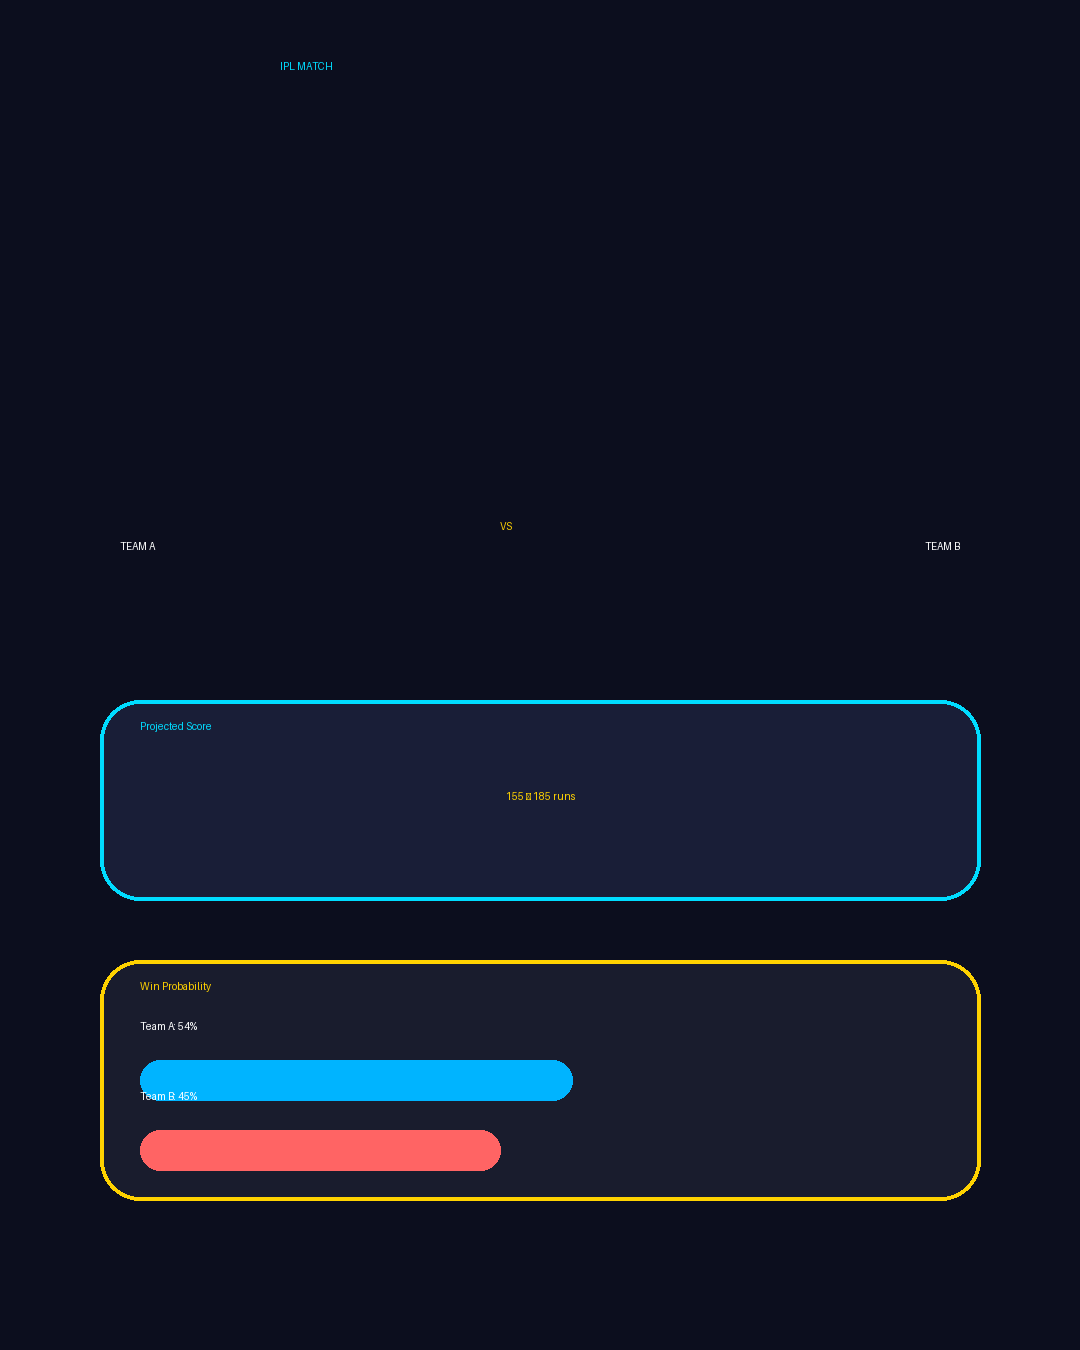
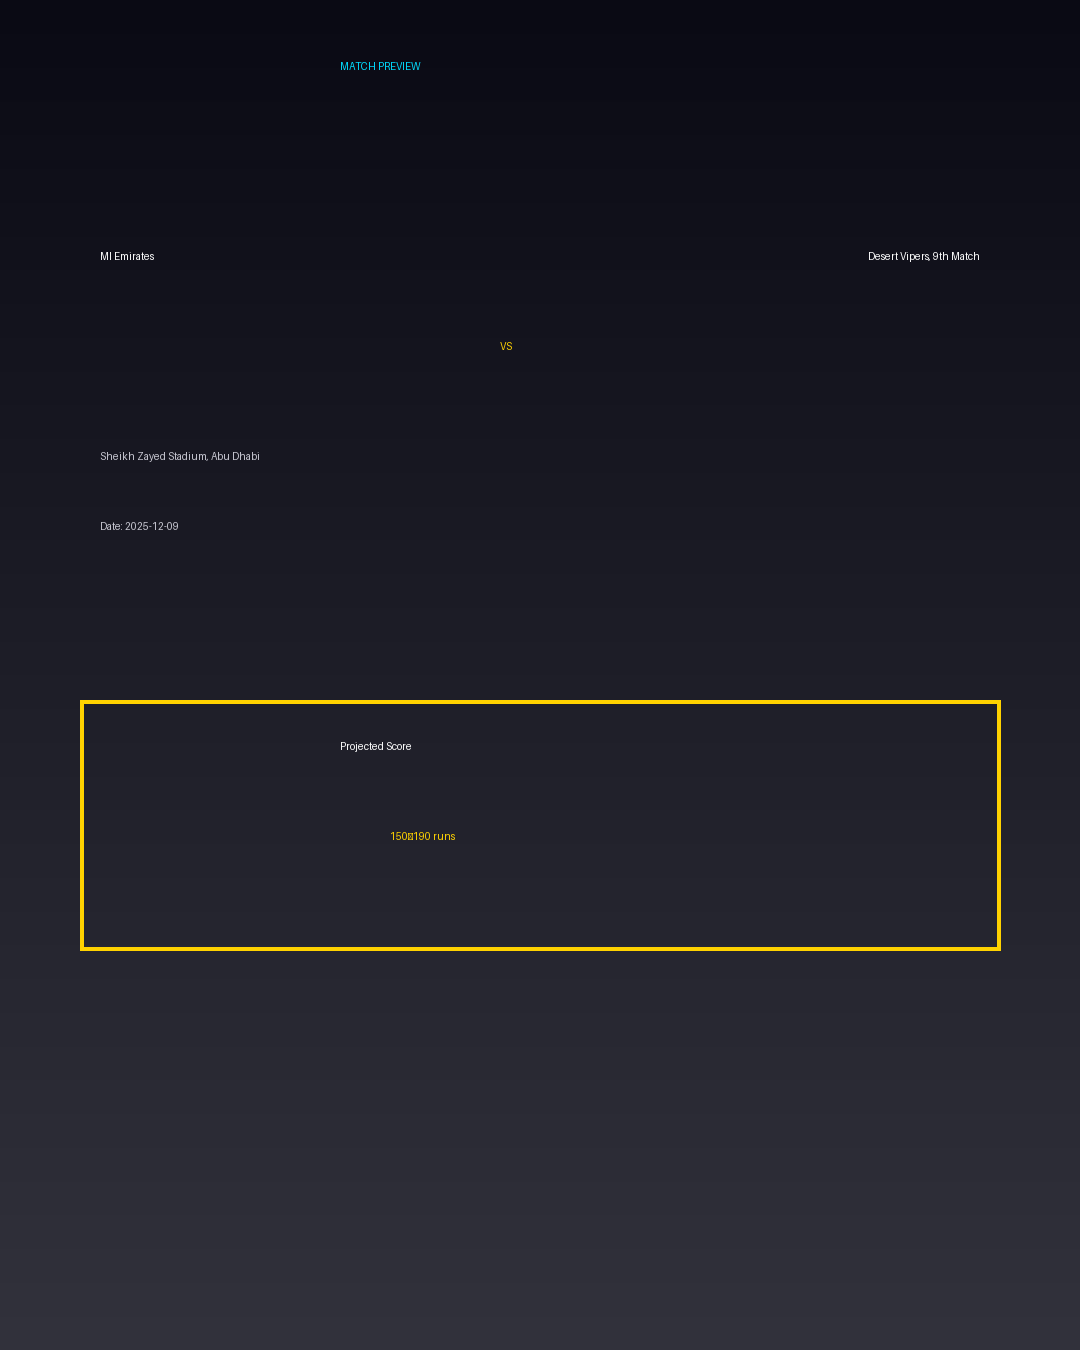
Automated match update: Tue Dec  9 17:03:03 UTC 2025

Changed region(s): [[0.0, 0.4978, 1.0, 1.0], [0.3667, 0.5911, 0.3972, 0.6222], [0.1222, 0.3733, 0.1528, 0.4044]]

diff --git a/matches/2025-12-09.html b/matches/2025-12-09.html
@@ -2,41 +2,49 @@
 <!DOCTYPE html>
 <html>
 <head>
-<meta charset='UTF-8'>
-<title>Team A vs Team B — IPL Match Preview</title>
+<meta charset="UTF-8">
+<title>MI Emirates vs Desert Vipers, 9th Match — Match Preview</title>
 <link rel="stylesheet" href="../assets/css/style.css">
 </head>
 <body>
 <main>
 
-<h1>Team A vs Team B</h1>
+<h1>MI Emirates vs Desert Vipers, 9th Match</h1>
 <p><strong>Date:</strong> 2025-12-09</p>
-<p><strong>Venue:</strong> Unknown Stadium</p>
+<p><strong>Venue:</strong> Sheikh Zayed Stadium, Abu Dhabi</p>
 
-<div class='card'>
-<h2>Projected Score</h2>
-<p>155 – 185 runs</p>
+<div class="card">
+<h2>Form Guide</h2>
+<p>MI Emirates: 🟩 🟥 🟩 🟩 🟥</p>
+<p>Desert Vipers, 9th Match: 🟥 🟩 🟥 🟥 🟩</p>
 </div>
 
-<div class='card'>
+<div class="card">
 <h2>Pitch Report</h2>
-<p>Balanced T20 wicket. Expected RR 7.8 – 8.4.</p>
+<p>Balanced wicket with moderate scoring conditions.</p>
 </div>
 
-<div class='card'>
-<h2>H2H Summary</h2>
-<p>Total matches: 10</p>
-<p>Team A: 5 wins</p>
-<p>Team B: 5 wins</p>
+<div class="card">
+<h2>Projected Score</h2>
+<p>150–190 runs</p>
 </div>
 
-<div class='card'>
-<h2>Win Probability</h2>
-<p>Team A: 54%</p>
-<p>Team B: 45%</p>
+<div class="card">
+<h2>Key Players</h2>
+<ul>
+<li><strong>MI Emirates Key Batter</strong> — Batsman</li><li><strong>MI Emirates Strike Bowler</strong> — Bowler</li><li><strong>Desert Vipers, 9th Match Key Batter</strong> — Batsman</li><li><strong>Desert Vipers, 9th Match Strike Bowler</strong> — Bowler</li></ul></div>
+<div class="card">
+<h2>Advanced Win Probability</h2>
+<p>MI Emirates: 64.3%</p>
+<p>Desert Vipers, 9th Match: 35.7%</p>
 </div>
 
-<img src="../assets/img/cards/2025-12-09.png" style="width:100%;margin-top:20px;" />
+<div class="card">
+<h2>AI Match Prediction</h2>
+<p>Based on venue conditions, a projected scoring range of 150–190 runs, recent form (with MI Emirates appearing slightly stronger), and the pitch profile ('Balanced wicket with moderate scoring conditions.'), this matchup appears to present MI Emirates entering as clear favorites. Early momentum and top-order execution will likely determine the winner.</p>
+</div>
+
+<img src="../assets/img/cards/2025-12-09.png" style="width:100%;border-radius:12px;margin-top:20px;" />
 
 </main>
 </body>
